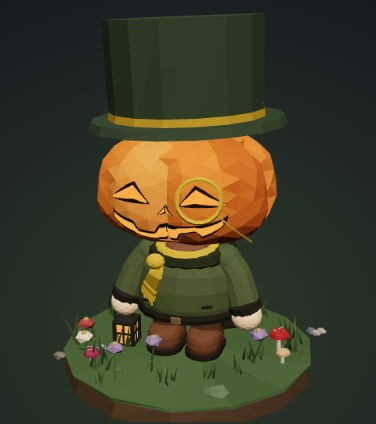
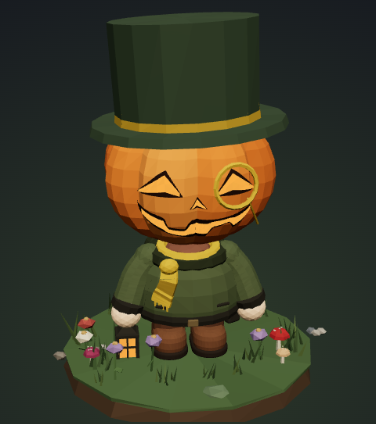
Testa a zucca: forma tonda a spicchi puliti, cappelli che poggiano sulla zucca
- La zucca è una griglia allineata agli spicchi (pieghe nette, niente
  triangoli storti), quasi alta quanto larga.
- Cappelli e berretto poggiano sulla buccia della zucca (prima seguivano
  la testa umana e il cilindro restava sospeso).
- Occhiali sulla zucca rivolti in avanti, come su una montatura dritta.

Claude-Session: https://claude.ai/code/session_01U6u5RojYrwYjZd8sSRU7em

Changed region(s): [[0.234, 0.2453, 0.7606, 0.8585], [0.4096, 0.0307, 0.5851, 0.0613], [0.2926, 0.0307, 0.3511, 0.0613]]

diff --git a/Prototype-3d/src/render/lowpoly/v2/custode.ts b/Prototype-3d/src/render/lowpoly/v2/custode.ts
@@ -195,6 +195,12 @@ class Tris {
 }
 
 /** Velo sulla testa: griglia (u, v) → (θ, φ), sollevata di thick(u, v) lungo la normale. */
+/** Superficie su cui poggiano cappelli e berretto: la testa, o la buccia della zucca. */
+function shellAt(th: number, ph: number) {
+  if (HEAD !== 'pumpkin') return headAt(th, ph);
+  const p = pumpkinAt(new THREE.Vector3(Math.sin(th) * Math.cos(ph), Math.sin(ph), Math.cos(th) * Math.cos(ph)));
+  return { p, n: p.clone().sub(C).normalize() };
+}
 function sheet(lp: LP, nu: number, nv: number, at: (u: number, v: number) => [number, number], thick: (u: number, v: number) => number, color: string, o: LPOpts = {}) {
   const P: THREE.Vector3[][] = [];
   const N: THREE.Vector3[][] = [];
@@ -202,7 +208,7 @@ function sheet(lp: LP, nu: number, nv: number, at: (u: number, v: number) => [nu
     P.push([]); N.push([]);
     for (let j = 0; j <= nv; j++) {
       const u = -1 + (2 * i) / nu, v = j / nv;
-      const { p, n } = headAt(...at(u, v));
+      const { p, n } = shellAt(...at(u, v));
       P[i].push(p.addScaledVector(n, 0.003 + thick(u, v))); N[i].push(n);
     }
   }
@@ -365,21 +371,23 @@ const beardTop = (thDeg: number) => { const a = Math.abs(thDeg); return a < 70 ?
 /** Superficie della zucca lungo una direzione dal centro: più larga e schiacciata, a spicchi. */
 function pumpkinAt(dir: THREE.Vector3): THREE.Vector3 {
   const v = dir.clone().normalize();
-  const p = surfaceAlong(v).sub(C);
-  const lon = Math.atan2(v.x, v.z), lat = Math.asin(THREE.MathUtils.clamp(v.y, -1, 1));
+  const lon = Math.atan2(v.x, v.z), h = Math.hypot(v.x, v.z);
   // spicchi gonfi con solchi netti, come la zucca-lampada: un solco al centro (sotto il naso),
   // così gli occhi cadono al centro di due spicchi; sulla faccia i solchi sono un po' più leggeri
-  const lobe = Math.pow(Math.abs(Math.sin(lon * PUMPKIN_LOBES / 2)), 0.4);
+  const step = (Math.PI * 2) / PUMPKIN_LOBES;
+  const w = (((lon / step) % 1) + 1) % 1;
+  const lobe = Math.pow(Math.sin(Math.PI * w), 0.6);
   const soft = lerp(0.6, 1, smooth(25, 75, Math.abs(lon) / DEG));
-  const rib = 1 - (1 - lobe) * 0.22 * soft * Math.pow(Math.cos(lat), 0.6);
-  p.x *= 1.1 * rib; p.z *= 1.07 * rib;
-  // bassa e larga: sommità e base rientrano verso il picciolo (fossetta in cima)
-  const h = Math.hypot(v.x, v.z);
-  p.y *= 0.8 - 0.08 * Math.pow(Math.abs(v.y), 5);
-  if (v.y > 0) p.y -= 0.07 * R.y * Math.exp(-((h / 0.3) ** 2));
-  p.y -= 0.16 * R.y; // poggia sul collo come la testa (niente buco sotto)
+  const rib = 1 - (1 - lobe) * 0.2 * soft * Math.pow(h, 0.6);
+  // un po' più larga che alta; sommità e base rientrano (fossetta del picciolo)
+  const p = new THREE.Vector3(v.x * PUMPKIN_R.x * rib, v.y * PUMPKIN_R.y, v.z * PUMPKIN_R.z * rib);
+  if (v.y > 0) p.y -= 0.05 * Math.exp(-((h / 0.35) ** 2));
+  else p.y += 0.03 * Math.exp(-((h / 0.3) ** 2));
+  p.y += PUMPKIN_R.y - R.y + 0.006; // la base poggia sul collo come il mento
   return p.add(C);
 }
+/** Semiassi della zucca (più larga della testa, quasi alta uguale). */
+const PUMPKIN_R = new THREE.Vector3(0.305, 0.258, 0.285);
 const PUMPKIN_LOBES = 8;
 /** Punto e normale sulla faccia della zucca, davanti, in (x, y) come `headFront`. */
 function pumpkinFront(x: number, y: number) {
@@ -394,7 +402,12 @@ function pumpkinFront(x: number, y: number) {
 }
 /** Dove stanno gli occhi (e quindi gli occhiali): sugli occhi intagliati per la zucca. */
 const PUMPKIN_EYE: [number, number] = [0.106, 0.823]; // baricentro del triangolo intagliato
-const faceAt = (x: number, y: number) => (HEAD === 'pumpkin' ? pumpkinFront(x, y) : headFront(x, y));
+/** Punto della faccia per occhiali e simili; sulla zucca (molto curva) guardano più in avanti, come lenti su una montatura dritta. */
+const faceAt = (x: number, y: number) => {
+  if (HEAD !== 'pumpkin') return headFront(x, y);
+  const f = pumpkinFront(x, y);
+  return { p: f.p, n: f.n.add(new THREE.Vector3(0, 0, 1)).normalize() };
+};
 const eyeAt = (): [number, number] => (HEAD === 'pumpkin' ? PUMPKIN_EYE : [EYE_X, EYE_Y]);
 
 /**
@@ -420,26 +433,27 @@ function carve(lp: LP, cx: number, w: number, top: (u: number) => number, bot: (
 
 /** Zucca: a spicchi, con il picciolo; faccia intagliata che brilla. */
 function pumpkin(lp: LP) {
-  // ogni spicchio ha la sua tinta (come la zucca-lampada): i triangoli si dividono per spicchio
-  const src = new THREE.IcosahedronGeometry(1, 4).toNonIndexed().attributes.position as THREE.BufferAttribute;
-  const TINTS = ['#d97a2a', '#bf6420', '#e8913f'];
+  // griglia allineata agli spicchi: i solchi cadono sulle linee della griglia (pieghe pulite)
+  // e ogni spicchio è un pezzo a sé con la sua tinta, come la zucca-lampada
+  const TINTS = ['#d97a2a', '#c4681f', '#e48c3c'];
   const ORDER = [0, 1, 0, 2, 0, 1, 0, 2]; // spicchi vicini sempre di tinta diversa
-  const buckets: number[][] = TINTS.map(() => []);
-  const v = new THREE.Vector3(), face: THREE.Vector3[] = [];
-  for (let i = 0; i < src.count; i += 3) {
-    face.length = 0;
-    for (let k = 0; k < 3; k++) face.push(pumpkinAt(v.fromBufferAttribute(src, i + k)));
-    const c = face[0].clone().add(face[1]).add(face[2]).divideScalar(3).sub(C);
-    const step = (Math.PI * 2) / PUMPKIN_LOBES;
-    const lobe = ((Math.floor(Math.atan2(c.x, c.z) / step) % PUMPKIN_LOBES) + PUMPKIN_LOBES) % PUMPKIN_LOBES; // i solchi stanno sui multipli del passo
-    for (const q of face) buckets[ORDER[lobe]].push(q.x, q.y, q.z);
-  }
-  buckets.forEach((arr, k) => {
+  const SEG = 5, NV = 14, step = (Math.PI * 2) / PUMPKIN_LOBES;
+  const at = (lon: number, lat: number) => pumpkinAt(new THREE.Vector3(Math.sin(lon) * Math.cos(lat), Math.sin(lat), Math.cos(lon) * Math.cos(lat)));
+  for (let k = 0; k < PUMPKIN_LOBES; k++) {
+    const pos: number[] = [];
+    const put = (...q: THREE.Vector3[]) => { for (const x of q) pos.push(x.x, x.y, x.z); };
+    for (let i = 0; i < SEG; i++) for (let j = 0; j < NV; j++) {
+      const l0 = (k + i / SEG) * step, l1 = (k + (i + 1) / SEG) * step;
+      const t0 = -Math.PI / 2 + (j / NV) * Math.PI, t1 = -Math.PI / 2 + ((j + 1) / NV) * Math.PI;
+      const a = at(l0, t0), b = at(l1, t0), c = at(l1, t1), d = at(l0, t1);
+      if (j > 0) put(a, b, c); // ai poli i quadrati diventano triangoli
+      if (j < NV - 1) put(a, c, d);
+    }
     const g = new THREE.BufferGeometry();
-    g.setAttribute('position', new THREE.Float32BufferAttribute(arr, 3));
+    g.setAttribute('position', new THREE.Float32BufferAttribute(pos, 3));
     g.computeVertexNormals();
-    lp.add(g, TINTS[k], { ...O, ao: 0.1, vary: 0.04 });
-  });
+    lp.add(g, TINTS[ORDER[k]], { ...O, ao: 0.1, vary: 0.03 });
+  }
   if (hatPh() >= 89) { // picciolo nella fossetta in cima (sotto un cappello non c'è posto)
     const b = pumpkinAt(new THREE.Vector3(0, 1, 0)).add(new THREE.Vector3(0, -0.01, 0));
     lp.add(taperTube([b, b.clone().add(new THREE.Vector3(0.015, 0.08, 0)), b.clone().add(new THREE.Vector3(0.06, 0.13, -0.02))], [0.045, 0.034, 0.024], 6), '#5a6a2c', O);
@@ -832,11 +846,11 @@ function hatGeo(lp: LP) {
   if (L.hat === 'beanie') {
     sheet(lp, 30, 6, (u, v) => [Math.PI + u * Math.PI, lerp(26, 89, v) * DEG], (_u, v) => 0.06 + 0.03 * smooth(0.3, 1, v), c);
     sheet(lp, 60, 2, (u, v) => [Math.PI + u * Math.PI, lerp(18, 32, v) * DEG], (u) => 0.085 + 0.006 * Math.cos(u * Math.PI * 30), shade(c, 0.04));
-    lp.blob(C.x, C.y + R.y + 0.09, C.z, 0.075, 0.07, 0.075, shade(c, 0.12), { ...O, detail: 1 } as LPOpts);
+    lp.blob(C.x, shellAt(0, Math.PI / 2).p.y + 0.09, C.z, 0.075, 0.07, 0.075, shade(c, 0.12), { ...O, detail: 1 } as LPOpts);
     return;
   }
   // la tesa poggia dove finiscono i capelli; la cupola li copre tutti
-  const at = (th: number) => headAt(th, (hatPh() - 4) * DEG).p;
+  const at = (th: number) => shellAt(th, (hatPh() - 4) * DEG).p;
   const brimY = at(0).y - 0.005;
   const headR = Math.max(...[0, 90, 180, -90].map((t) => Math.hypot(at(t * DEG).x - C.x, at(t * DEG).z - C.z)));
   const wide = L.hat === 'wide';
@@ -852,7 +866,7 @@ function hatGeo(lp: LP) {
 /** Occhiali, lentiggini, cerotto. */
 function faceExtras(lp: LP) {
   const frame = L.glasses === 'square' ? '#6b4a33' : '#c9a227';
-  const lift = HEAD === 'pumpkin' ? 0.014 : 0.03; // sulla zucca gli occhiali poggiano sulla buccia
+  const lift = HEAD === 'pumpkin' ? 0.008 : 0.03; // sulla zucca gli occhiali poggiano sulla buccia
   // (sulla zucca vanno sugli occhi intagliati, appoggiati alla buccia)
   const [ex, ey] = eyeAt(), lens = HEAD === 'pumpkin' ? 0.07 : 0.062;
   if (L.glasses === 'round' || L.glasses === 'monocle') {
